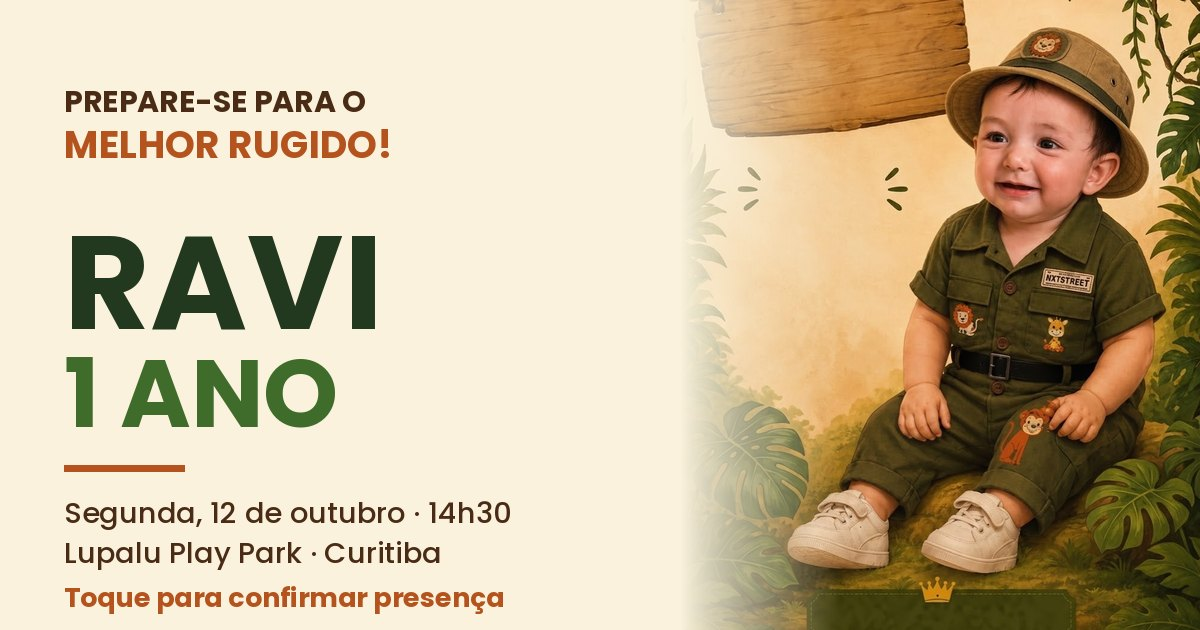
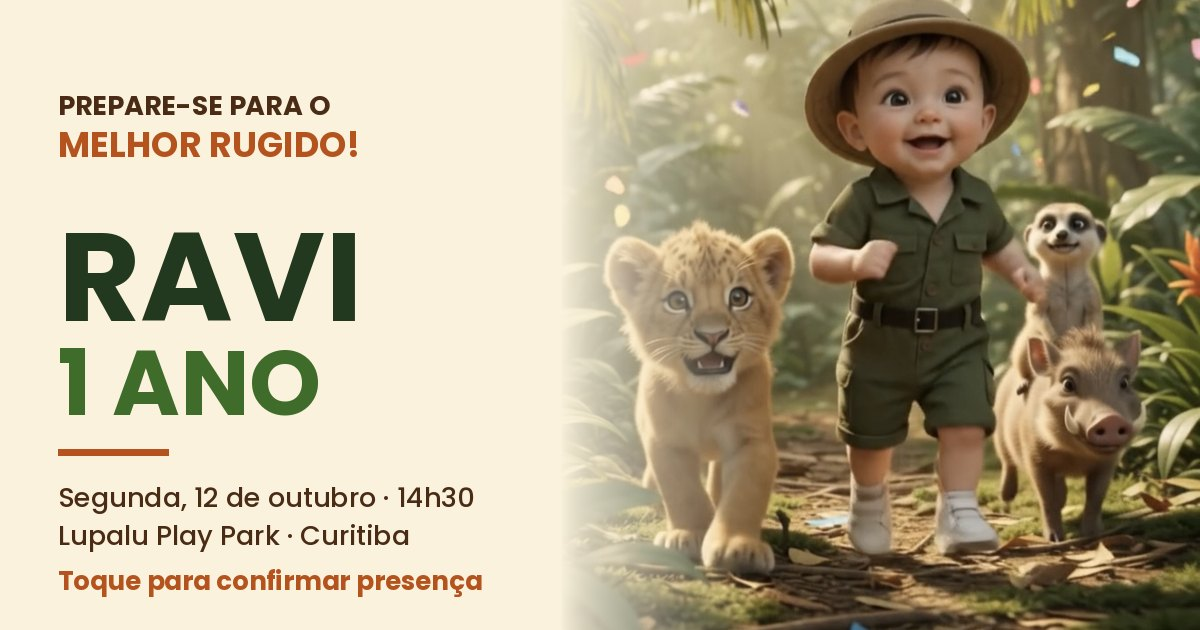
Confirmacoes no Supabase, botoes de agenda e nova previa

diff --git a/index.html b/index.html
@@ -116,6 +116,12 @@
   .pronto{display:none;text-align:center;padding:20px 0 4px}
   .pronto.on{display:block}
   .coroa{display:block;width:38px;margin:0 auto 10px}
+  .agenda{margin:22px auto 0;max-width:320px}
+  .agenda-titulo{margin:0 0 8px;font-family:Anton,sans-serif;font-size:16px;color:var(--mata);letter-spacing:.02em}
+  .agenda a{display:block;margin-top:8px;padding:12px;border-radius:11px;border:2px solid var(--folha);
+    color:var(--mata);background:rgba(255,255,255,.75);font-weight:800;text-decoration:none;font-size:16px}
+  .agenda a:hover{background:#fff}
+  .senha{width:100%;max-width:280px;margin:0 0 12px;padding:12px 14px;font:inherit;border:2px solid var(--linha);border-radius:10px}
   .zap{display:inline-block;margin-top:18px;background:var(--folha);color:#fff;font-weight:800;text-decoration:none;padding:13px 22px;border-radius:12px}
 
   footer{text-align:center;color:#6B5340;font-size:14px;margin-top:30px;padding-top:16px;border-top:3px dotted var(--linha)}
@@ -250,6 +256,11 @@
       <h2 id="pronto-titulo">PRESENÇA CONFIRMADA</h2>
       <p id="pronto-texto"></p>
       <a class="zap" id="zap" href="#" target="_blank" rel="noopener">Avisar no WhatsApp</a>
+      <div class="agenda" id="agenda">
+        <p class="agenda-titulo">Guarde a data</p>
+        <a id="gcal" href="#" target="_blank" rel="noopener">Google Agenda</a>
+        <a id="ical" href="#" download="aniversario-do-ravi.ics">Calendário do celular</a>
+      </div>
     </section>
 
     <footer>
@@ -266,6 +277,12 @@
     <div class="total"><b id="t-criancas">0</b> crianças 3–10</div>
     <div class="total"><b id="t-bebes">0</b> até 2 anos</div>
   </div>
+  <div id="entrada">
+    <p class="ajuda">Digite a senha do anfitrião para ver quem confirmou.</p>
+    <input class="senha" id="senha" type="password" placeholder="senha" autocomplete="off">
+    <p><button type="button" id="entrar">Ver a lista</button></p>
+    <p class="erro" id="erro-lista" hidden></p>
+  </div>
   <ul class="lista" id="lista"></ul>
   <p><button type="button" id="fechar">Voltar ao convite</button></p>
   <p class="ajuda">As respostas ficam salvas neste link e podem ser vistas por quem abrir a área do anfitrião.</p>
@@ -273,10 +290,10 @@
 
 <script>
 (function(){
+  var API  = "https://dzysyujkefksduusnkpb.supabase.co/rest/v1";
+  var KEY  = "sb_publishable_foVjR4L0DXOt7c2k5-8JWw_dgZpTWu8";
   var contagem = {adultos:1, criancas:0, bebes:0};
   var LIMITE = 12;
-  var memoria = {};
-  var temStorage = typeof window.storage !== "undefined";
 
   function pinta(k){
     document.getElementById(k).textContent = contagem[k];
@@ -293,38 +310,56 @@
     if(menos){ contagem[menos] = Math.max(menos==="adultos"?1:0, contagem[menos]-1); pinta(menos); }
   });
 
-  async function salvar(reg){
-    var chave = "rsvp:" + Date.now() + Math.floor(Math.random()*1000);
-    memoria[chave] = reg;
-    if(!temStorage) return false;
-    try{ return !!(await window.storage.set(chave, JSON.stringify(reg), true)); }
-    catch(err){ return false; }
-  }
-
-  async function carregar(){
-    var itens = [];
-    if(temStorage){
-      try{
-        var res = await window.storage.list("rsvp:", true);
-        var chaves = (res && res.keys) || [];
-        for(var i=0;i<chaves.length;i++){
-          try{
-            var v = await window.storage.get(chaves[i], true);
-            if(v && v.value) itens.push(JSON.parse(v.value));
-          }catch(e){}
-        }
-      }catch(e){}
-    }
-    if(!itens.length) itens = Object.keys(memoria).map(function(k){return memoria[k];});
-    return itens;
-  }
-
   function texto(reg){
     var p = [];
     if(reg.adultos) p.push(reg.adultos + (reg.adultos>1?" adultos":" adulto"));
-    if(reg.criancas) p.push(reg.criancas + (reg.criancas>1?" crianças de 3 a 10":" criança de 3 a 10"));
-    if(reg.bebes) p.push(reg.bebes + (reg.bebes>1?" bebês":" bebê"));
+    if(reg.criancas) p.push(reg.criancas + (reg.criancas>1?" crian\u00e7as de 3 a 10":" crian\u00e7a de 3 a 10"));
+    if(reg.bebes) p.push(reg.bebes + (reg.bebes>1?" beb\u00eas":" beb\u00ea"));
     return p.join(", ");
+  }
+
+  async function salvar(reg){
+    var r = await fetch(API + "/confirmacoes_ravi", {
+      method: "POST",
+      headers: {
+        "apikey": KEY,
+        "Authorization": "Bearer " + KEY,
+        "Content-Type": "application/json",
+        "Prefer": "return=minimal"
+      },
+      body: JSON.stringify(reg)
+    });
+    if(!r.ok) throw new Error("falha ao salvar");
+  }
+
+  // ---- guardar a data ----
+  var EVT = {
+    titulo: "Anivers\u00e1rio do Ravi \u2014 1 ano",
+    local: "Lupalu Play Park, R. Jos\u00e9 Hauer, 1778c - Boqueir\u00e3o, Curitiba - PR, 81730-400",
+    inicio: "20261012T173000Z",
+    fim:    "20261012T213000Z",
+    nota:   "Segunda-feira, 12 de outubro, \u00e0s 14h30. Confirma\u00e7\u00f5es: https://ravi-1ano.vercel.app/"
+  };
+  function montaAgenda(){
+    document.getElementById("gcal").href =
+      "https://calendar.google.com/calendar/render?action=TEMPLATE" +
+      "&text=" + encodeURIComponent(EVT.titulo) +
+      "&dates=" + EVT.inicio + "/" + EVT.fim +
+      "&details=" + encodeURIComponent(EVT.nota) +
+      "&location=" + encodeURIComponent(EVT.local);
+    var ics = [
+      "BEGIN:VCALENDAR","VERSION:2.0","PRODID:-//Convite Ravi//PT-BR","CALSCALE:GREGORIAN",
+      "BEGIN:VEVENT","UID:ravi-1ano@ravi-1ano.vercel.app",
+      "DTSTAMP:" + EVT.inicio,
+      "DTSTART:" + EVT.inicio,
+      "DTEND:" + EVT.fim,
+      "SUMMARY:" + EVT.titulo,
+      "LOCATION:" + EVT.local.replace(/,/g, "\\,"),
+      "DESCRIPTION:" + EVT.nota.replace(/,/g, "\\,"),
+      "BEGIN:VALARM","TRIGGER:-P1D","ACTION:DISPLAY","DESCRIPTION:Anivers\u00e1rio do Ravi amanh\u00e3","END:VALARM",
+      "END:VEVENT","END:VCALENDAR"
+    ].join("\r\n");
+    document.getElementById("ical").href = "data:text/calendar;charset=utf-8," + encodeURIComponent(ics);
   }
 
   async function envia(vai){
@@ -337,61 +372,93 @@
       return;
     }
     erro.hidden = true;
-    document.getElementById("enviar").disabled = true;
+    var botao = document.getElementById("enviar");
+    botao.disabled = true;
+    botao.textContent = "ENVIANDO...";
 
     var reg = {
       nome: nome,
-      fone: document.getElementById("fone").value.trim(),
-      recado: document.getElementById("recado").value.trim(),
+      fone: document.getElementById("fone").value.trim() || null,
+      recado: document.getElementById("recado").value.trim() || null,
       adultos: vai ? contagem.adultos : 0,
       criancas: vai ? contagem.criancas : 0,
       bebes: vai ? contagem.bebes : 0,
-      vai: vai,
-      quando: new Date().toISOString()
+      vai: vai
     };
-    await salvar(reg);
+
+    try{
+      await salvar(reg);
+    }catch(e){
+      botao.disabled = false;
+      botao.textContent = "CONFIRMAR PRESEN\u00c7A";
+      erro.textContent = "N\u00e3o consegui enviar. Confira a internet e tente de novo.";
+      erro.hidden = false;
+      return;
+    }
 
     var msg = vai
-      ? "Oi! Confirmando presença no aniversário do Ravi: " + texto(reg) + ". — " + nome
-      : "Oi! Infelizmente não vou conseguir ir no aniversário do Ravi. — " + nome;
+      ? "Oi! Confirmando presen\u00e7a no anivers\u00e1rio do Ravi: " + texto(reg) + ". \u2014 " + nome
+      : "Oi! Infelizmente n\u00e3o vou conseguir ir no anivers\u00e1rio do Ravi. \u2014 " + nome;
 
     document.getElementById("form").style.display = "none";
     document.getElementById("pronto").classList.add("on");
-    document.getElementById("pronto-titulo").textContent = vai ? "PRESENÇA CONFIRMADA" : "RESPOSTA ENVIADA";
+    document.getElementById("pronto-titulo").textContent = vai ? "PRESEN\u00c7A CONFIRMADA" : "RESPOSTA ENVIADA";
     document.getElementById("pronto-texto").textContent = vai
-      ? "Anotado: " + texto(reg) + ". Te esperamos segunda, 12 de outubro, às 14h30, no Lupalu Play Park."
-      : "Que pena! Obrigado por avisar — vamos guardar um pedaço de bolo.";
+      ? "Anotado: " + texto(reg) + ". Te esperamos segunda, 12 de outubro, \u00e0s 14h30, no Lupalu Play Park."
+      : "Que pena! Obrigado por avisar \u2014 vamos guardar um peda\u00e7o de bolo.";
     document.getElementById("zap").href = "https://wa.me/?text=" + encodeURIComponent(msg);
+    if(vai){ montaAgenda(); } else { document.getElementById("agenda").style.display = "none"; }
     document.getElementById("pronto").scrollIntoView({behavior:"smooth", block:"center"});
   }
 
   document.getElementById("form").addEventListener("submit", function(e){ e.preventDefault(); envia(true); });
   document.getElementById("recusar").addEventListener("click", function(){ envia(false); });
 
+  // ---- \u00e1rea do anfitri\u00e3o ----
   var toques = 0;
   document.getElementById("chave").addEventListener("click", function(){ if(++toques >= 5) abrePainel(); });
   if(location.search.indexOf("lista") > -1) abrePainel();
 
   function esc(s){ return String(s).replace(/[<>&"]/g, function(c){ return {"<":"&lt;",">":"&gt;","&":"&amp;",'"':"&quot;"}[c]; }); }
 
-  async function abrePainel(){
-    var itens = await carregar();
-    itens.sort(function(a,b){ return a.quando < b.quando ? 1 : -1; });
+  function abrePainel(){
+    document.getElementById("quadro").style.display = "none";
+    document.getElementById("painel").classList.add("on");
+    window.scrollTo(0,0);
+    document.getElementById("senha").focus();
+  }
+
+  async function carregaLista(){
+    var senha = document.getElementById("senha").value;
+    var aviso = document.getElementById("erro-lista");
+    aviso.hidden = true;
+    var r = await fetch(API + "/rpc/lista_ravi", {
+      method: "POST",
+      headers: {"apikey": KEY, "Authorization": "Bearer " + KEY, "Content-Type": "application/json"},
+      body: JSON.stringify({senha: senha})
+    });
+    if(!r.ok){
+      aviso.textContent = "Senha incorreta.";
+      aviso.hidden = false;
+      return;
+    }
+    var itens = await r.json();
     var ta=0, tc=0, tb=0, html="";
-    itens.forEach(function(r){
-      ta+=r.adultos||0; tc+=r.criancas||0; tb+=r.bebes||0;
-      var linha = r.vai ? texto(r) : "não vai";
-      html += '<li class="'+(r.vai?"":"nao")+'"><strong>'+esc(r.nome)+'</strong><span>'+esc(linha)+
-              (r.fone?" &middot; "+esc(r.fone):"")+'</span>'+(r.recado?'<span>&ldquo;'+esc(r.recado)+'&rdquo;</span>':"")+'</li>';
+    itens.forEach(function(reg){
+      ta+=reg.adultos||0; tc+=reg.criancas||0; tb+=reg.bebes||0;
+      var linha = reg.vai ? texto(reg) : "n\u00e3o vai";
+      html += '<li class="'+(reg.vai?"":"nao")+'"><strong>'+esc(reg.nome)+'</strong><span>'+esc(linha)+
+              (reg.fone?" &middot; "+esc(reg.fone):"")+'</span>'+
+              (reg.recado?'<span>&ldquo;'+esc(reg.recado)+'&rdquo;</span>':"")+'</li>';
     });
     document.getElementById("t-adultos").textContent = ta;
     document.getElementById("t-criancas").textContent = tc;
     document.getElementById("t-bebes").textContent = tb;
-    document.getElementById("lista").innerHTML = html || '<li>Ninguém respondeu ainda. Assim que chegar a primeira confirmação ela aparece aqui.</li>';
-    document.getElementById("quadro").style.display = "none";
-    document.getElementById("painel").classList.add("on");
-    window.scrollTo(0,0);
+    document.getElementById("lista").innerHTML = html || '<li>Ningu\u00e9m respondeu ainda.</li>';
+    document.getElementById("entrada").style.display = "none";
   }
+  document.getElementById("entrar").addEventListener("click", carregaLista);
+  document.getElementById("senha").addEventListener("keydown", function(e){ if(e.key === "Enter") carregaLista(); });
 
   try{
     if(window.matchMedia && window.matchMedia("(prefers-reduced-motion: reduce)").matches){
